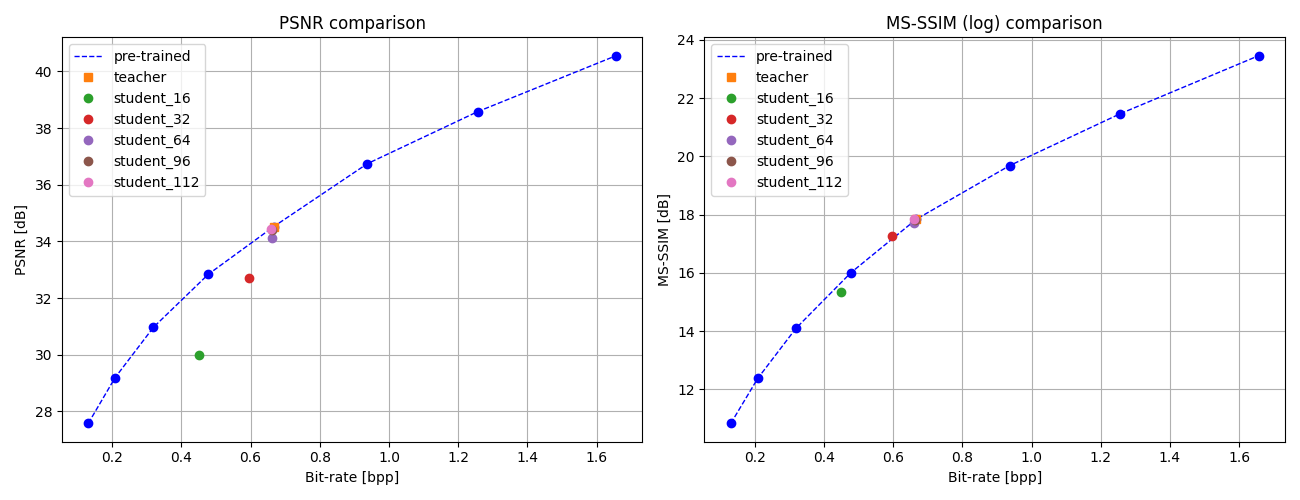
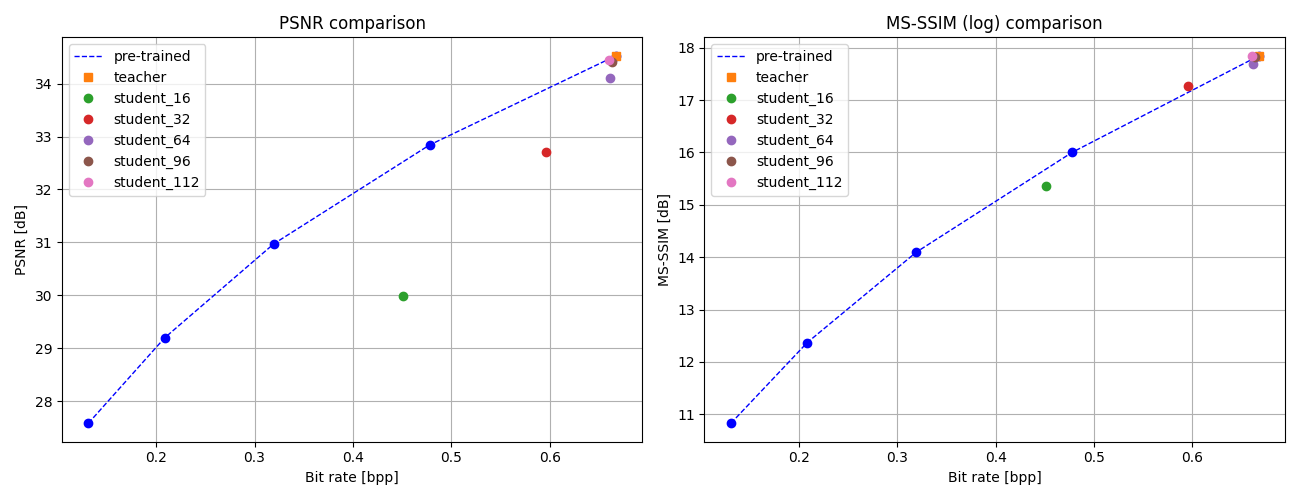
R2: - Update part 2 - Update appendix - Add figures

diff --git a/reports/report_2/src/part_2.tex b/reports/report_2/src/part_2.tex
@@ -50,7 +50,7 @@ For reference, we show in Figure \ref{kd_ae_2} the \acrshort{rd} performance of 
 \begin{figure}
     \centering
     \includegraphics[width=15cm]{../img/kd_ae_rd.png}
-    \caption[Average \acrshort{rd} curve on the Kodak dataset for students with different number of channels.]{Average \acrshort{rd} curve on the Kodak dataset for students with different number of channels. Eventhough they were guided by a \acrshort{lic} model during their training, the student models poorly compares to state-of-the-art models in \acrshort{rd}.}
+    \caption[Average \acrshort{rd} performance on the Kodak dataset for students with different number of channels.]{Average \acrshort{rd} performance on the Kodak dataset for students with different number of channels. Eventhough they were guided by a \acrshort{lic} model during their training, the student models poorly compares to state-of-the-art models in \acrshort{rd}. (The pre-trained models are compressAI scale hyperperior models with \extsf{quality} from 1 to 8).}
     \label{kd_ae_2}
 \end{figure}
 
@@ -70,8 +70,12 @@ In this section aims at evaluating the \acrshort{rd} performance gain achievable
 \end{align}
 
 \begin{align}
-RD(\hat{y}_{student}, \hat{x}_{student}, x) &= -E[\log_{2}\hat{y}_{student} + \log_{2}\hat{z}_{student}] + \lambda\, MSE(\hat{x}_{student}, x)
+    RD(\hat{y}_{student}, \hat{x}_{student}, x) &= -E[\log_{2}\hat{y}_{student} + \log_{2}\hat{z}_{student}] + \lambda\, MSE(\hat{x}_{student}, x)
 \end{align}
+
+We also tried to use the Kullback-Leibler divergence instead of \acrshort{mse} loss function on the latent space but found that it resulted in slightly higher bit rates. Outcome of this experiment is exposed in Figure \ref{appendix:kd_lic_1_kld}.
+
+For easier comparison and because our study focuses on low bit rate image compression, we compare our results to compressAI pre-trained models with \textsf{quality} from 1 to 5.
 
 \subsubsection{Architecture Size Tradeoff}
 \label{architecture_size_tradeoff}
@@ -199,6 +203,23 @@ Most edge devices also have access to a limited amount of energy whether it is i
     \end{tabular}
     \caption[Consumed energy, \acrshort{psnr} and bit rate for teacher and student models.]{Consumed energy, \acrshort{psnr} and bit rate for teacher and student models.}
     \label{tab_energy}
+\end{table}
+
+% Please add the following required packages to your document preamble:
+% \usepackage[table,xcdraw]{xcolor}
+% Beamer presentation requires \usepackage{colortbl} instead of \usepackage[table,xcdraw]{xcolor}
+\begin{table}[]
+    \centering
+    \begin{tabular}{|c|r|r|r|}
+    \hline
+    Codec     & \multicolumn{1}{c|}{\begin{tabular}[c]{@{}c@{}}Energy\\ {[}mJ/frame{]}\end{tabular}} & \multicolumn{1}{c|}{PSNR} & \multicolumn{1}{c|}{\begin{tabular}[c]{@{}c@{}}Bit rate\\ {[}bpp{]}\end{tabular}} \\ \hline
+    JPEG      & 843.39                                                                               & 26.65                     & 0.33                                                                              \\ \hline
+    JPEG 2000 & 2894.59                                                                              & 70.00                     & 13.45                                                                             \\ \hline
+    PNG       & 2642.24                                                      & 70.00                     & 13.51                                                                             \\ \hline
+    Webp      & 663.84                                                                               & 29.15                     & 0.30                                                                              \\ \hline
+    \end{tabular}
+    \caption[Consumed energy, \acrshort{psnr} and bit rate for different codecs.]{Consumed energy, \acrshort{psnr} and bit rate for different codecs.}
+    \label{tab_codecs}
 \end{table}
 
 This section is a deep dive into the resource consumption of standard and knowledge distilled models. Based on measures of memory usage, required computing power and energy consumption on students architectures with varying number of channels, we prove that \acrshort{kd} indeed create frugal models. In all experiments, our \acrshort{kd} models consume less resources that standard models at a (sometimes negligeable) cost in \acrshort{rd} performance. On a not-too-constrained platform, we would recommand the use of the student with 64 channels. It has a limited use of resources without noticeable impact on image compression.

diff --git a/reports/report_2/src/appendix.tex b/reports/report_2/src/appendix.tex
@@ -51,6 +51,13 @@ def model_memory_size(model):
 
 \begin{figure}
     \centering
+    \includegraphics[width=15cm]{../img/kd_lic_rd_channels_kld.png}
+    \caption[Average \acrshort{rd} curve on the Kodak dataset for students with different number of channels and Kullback-Leibler divergence loss on the latent space.]{Average \acrshort{rd} curve on the Kodak dataset for students with different number of channels and Kullback-Leibler divergence loss on the latent space.}
+    \label{appendix:kd_lic_1_kld}
+\end{figure}
+
+\begin{figure}
+    \centering
     \includegraphics[width=15cm]{../img/kd_lic_kodak_14.png}
     \caption[Evaluation on the Kodak dataset of the scale hyperprior student models trained for image compression: reconstruction results on image 14 of the Kodak dataset with teacher and student architectures.]{Evaluation on the Kodak dataset of the scale hyperprior student models trained for image compression: reconstruction results on image 14 of the Kodak dataset with teacher and student architectures.}
     \label{appendix:kd_lic_2:a}

diff --git a/reports/report_2/main.tex b/reports/report_2/main.tex
@@ -18,7 +18,7 @@
 % \usepackage{fancyhdr}
 % \pagestyle{fancy}
 \usepackage[backend=biber]{biblatex}
-\addbibresource{src/bibliography.bib}
+\addbibresource{src/references.bib}
 \usepackage{appendix}
 \usepackage{float}
 \usepackage{graphicx}
@@ -53,26 +53,6 @@
 \newcommand\emptypage{
     \null
     \newpage}
-
-% Command to create a glossary entry with correspondent acronym.
-% https://tex.stackexchange.com/questions/8946/how-to-combine-acronym-and-glossary
-% Args : 1: entry, 2: acronym/name, 3: long name, 4: description
-\newcommand{\newglossaryentrywithacronym}[4]{
-    %%% The glossary entry the acronym links to   
-    \newglossaryentry{#1_gls}{
-        name={#2},
-        long={#3},
-        description={#4}
-    }
-
-    % Acronym pointing to glossary
-    \newglossaryentry{#1}{
-        type=\acronymtype,
-        name={#2},
-        description={#3},
-        see=[Glossary:]{#1_gls}
-    }
-}
 
 \definecolor{LightGray}{gray}{0.9}
 

diff --git a/private/logbook.md b/private/logbook.md
@@ -458,10 +458,11 @@
 - Compare to codecs:
   - Test with PIL
 
+## 07/03/2025
+- Reports
+
+## 08/03/2025
+- Reports
+
 ## TODO
-- Do LIC chapter 1
-- Name figures properly
-- Add BD metrics
-- Retrain TeacherAE and StudentAe for longer and do torchview for report (https://github.com/mert-kurttutan/torchview)
-- Remake pdf of first report (correct errors)
-- Do article (Our work on this topic can be summarised as follow: ...)
+- Do proper codecs testing/comparison
